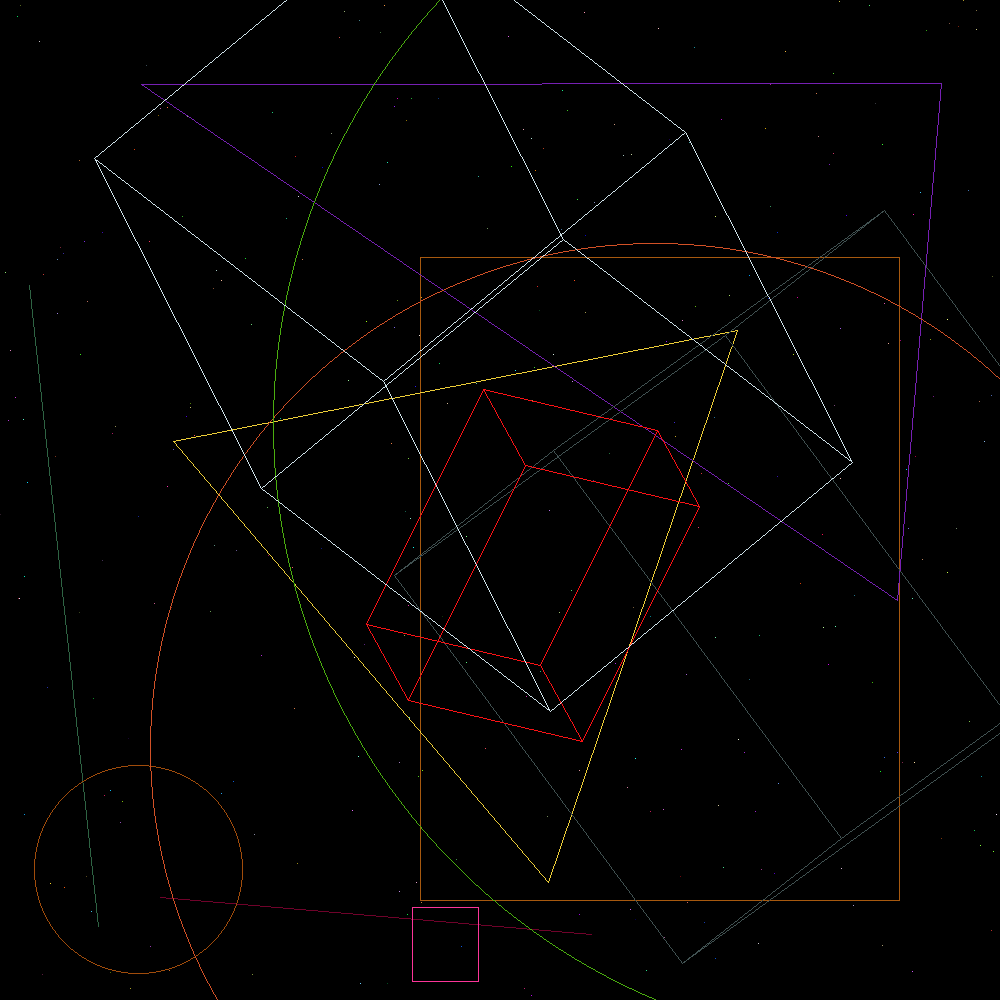
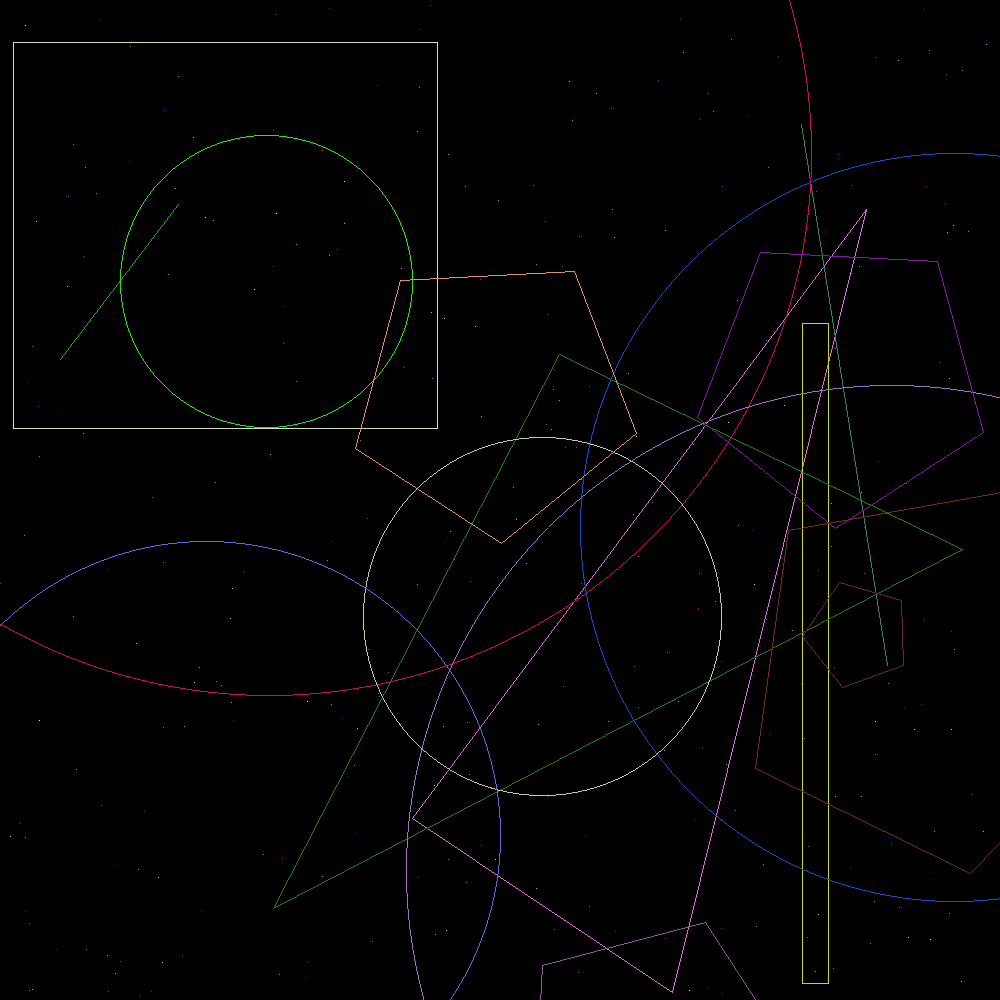
Polygons as pentagons

diff --git a/src/polygons.rs b/src/polygons.rs
@@ -1,0 +1,70 @@
+use std::f32::consts::PI;
+
+use super::*;
+use geometrical_shapes::{Line, Point};
+
+use rand::random_range;
+
+pub struct Polygon {
+    pub start: Point,
+    pub size: i32,
+    pub corners: i32,
+}
+
+impl Polygon {
+    fn new(start: &Point, size: i32, corners: i32) -> Self {
+        Polygon {
+            start: start.clone(),
+            size,
+            corners,
+        }
+    }
+
+    pub fn random(max_x: i32, max_y: i32) -> Self {
+        //let corners: i32 = random_range(5..=9);
+        let corners = 5;
+        let size = random_range(30..=(1500 / corners));
+
+        Polygon::new(
+            &Point::new(random_range(0..=max_x), random_range(0..=max_y)),
+            size,
+            corners,
+        )
+    }
+}
+
+impl Drawable for Polygon {
+    fn draw<I: Displayable>(&self, image: &mut I) {
+        let random_color = self.color();
+
+        // Equal angle step for each corner
+        let step_angle = 2.0 * PI / self.corners as f32;
+
+        // Random initial orientation (0..2π)
+        let start_angle = (random_range(0..360) as f32).to_radians();
+
+        // Generate all vertices, starting with self.start
+        let mut points = Vec::new();
+        points.push(self.start);
+
+        for i in 1..self.corners {
+            let angle = start_angle + (i - 1) as f32 * step_angle;
+            let prev = points[(i - 1) as usize];
+
+            let x = prev.x as f32 + self.size as f32 * angle.cos();
+            let y = prev.y as f32 + self.size as f32 * angle.sin();
+
+            points.push(Point {
+                x: x.round() as i32,
+                y: y.round() as i32,
+            });
+        }
+
+        // Draw polygon edges
+        for i in 0..self.corners {
+            let p1 = points[i as usize];
+            let p2 = points[((i + 1) % self.corners) as usize]; // wrap last to first
+            Line::new(&p1, &p2).draw_with_color(image, random_color.clone());
+        }
+    }
+}

diff --git a/src/main.rs b/src/main.rs
@@ -1,11 +1,11 @@
-mod geometrical_shapes;
 mod cubes;
+mod geometrical_shapes;
+mod polygons;
 
 use geometrical_shapes as gs;
 use gs::{Displayable, Drawable};
 
 //use cubes::*;
-
 
 use raster::{Color, Image};
 
@@ -35,20 +35,18 @@ fn main() {
         gs::Triangle::random(image.width, image.height).draw(&mut image);
     }
 
-    for _ in 0..3 {
+    for _ in 0..6 {
         gs::Circle::random(image.width, image.height).draw(&mut image);
     }
 
-    for _ in 0..3 {
-        cubes::Cube::random(image.width, image.height).draw(&mut image);
+    for _ in 0..5 {
+        let p = polygons::Polygon::random(image.width, image.height);
+        p.draw(&mut image);
     }
 
-    /* let cube = cubes::Cube::new(
-        &gs::Point::new(500, 500),
-        &gs::Point::new(250, 700),
-        &gs::Point::new(700, 800),
-    );
-    cube.draw(&mut image); */
+    /* for _ in 0..3 {
+        cubes::Cube::random(image.width, image.height).draw(&mut image);
+    } */
 
     raster::save(&image, "image.png").unwrap();
 }

diff --git a/src/cubes.rs b/src/cubes.rs
@@ -1,6 +1,5 @@
 use super::*;
-use geometrical_shapes as gs;
-use gs::{Point, Line};
+use geometrical_shapes::{Point, Line};
 
 use rand::random_range;
 use std::mem::swap;
